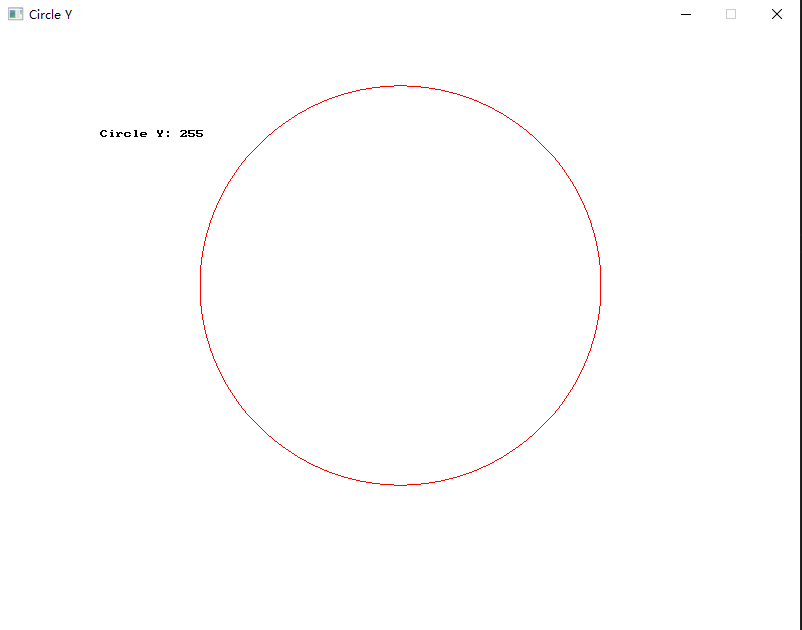
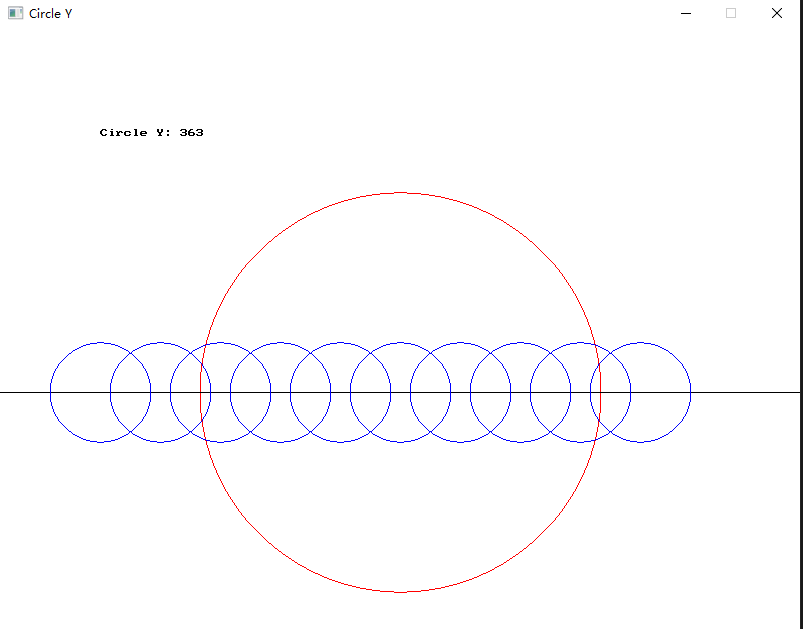
new change

diff --git a/public/usage-examples/geometry/circle_y/circle_y-1-simple-oop.cs b/public/usage-examples/geometry/circle_y/circle_y-1-simple-oop.cs
@@ -6,30 +6,41 @@ namespace CircleY
     {
         public static void Main()
         {
-        SplashKit.OpenWindow("Circle Y", 800, 600);
-        SplashKit.ClearScreen();
+            SplashKit.OpenWindow("Circle Y", 800, 600);
+            SplashKit.ClearScreen();
 
-        Random random = new Random();
-        // Set position for the circle
-        double x_position = 400;
-        //Give random  y_position value bewteen 200 - 400
-        double y_position = random.Next(200) + 200;
+            // Set position for the circle
+            double x_position = 400;
+            //Give random  y_position value bewteen 200 - 400
+            double y_position = SplashKit.Rnd(200) + 200;
 
-        // Create A circle name "A"
-        Circle A = SplashKit.CircleAt(x_position, y_position, 200);
-        // Find the y position of the circle
-        double circleY = SplashKit.CircleY(A);
+            // Create a circle A at the position (x_position, y_position)
+            Circle A = SplashKit.CircleAt(x_position, y_position, 200);
+            // Find the y position of the circle
+            double circleY = SplashKit.CircleY(A);
 
-        //Draw the Circle
-        SplashKit.DrawCircle(Color.Red, x_position, circleY, 200);
-    
-        string text = "Circle Y: " + circleY.ToString();
-        // Print result on window
-        SplashKit.DrawText(text, Color.Black, "NORMAL_FONT", 20, 100, 100);
+            //Draw the Circle
+            SplashKit.DrawCircle(Color.Red, x_position, circleY, 200);
 
-        SplashKit.RefreshScreen();
-        SplashKit.Delay(4000);
-        SplashKit.CloseAllWindows();
+            //Draw a line to show the circle Y coordinate
+            SplashKit.DrawLine(Color.Black, 0, circleY, 800, circleY);
+
+            string text = "Circle Y: " + circleY.ToString();
+            // Print result on window
+            SplashKit.DrawText(text, Color.Black, 100, 100);
+
+            //Draw 10 circles with radient 50 and the same circle y coordinate
+            for (int i = 0; i < 10; i++)
+            {
+                int x = i * 60 + 100;
+                int radiant = 50;
+
+                SplashKit.DrawCircle(Color.Blue, x, circleY, radiant);
+            }
+
+            SplashKit.RefreshScreen();
+            SplashKit.Delay(4000);
+            SplashKit.CloseAllWindows();
         }
     }
 }

diff --git a/public/usage-examples/geometry/circle_y/circle_y-1-simple.cpp b/public/usage-examples/geometry/circle_y/circle_y-1-simple.cpp
@@ -8,19 +8,31 @@ int main()
     //Set position for the circle
     double x_position = 400;
     //Give random  y_position value bewteen 200 - 400
-    double y_position = rand() % 200 + 200;
+    double y_position = rnd(200) + 200;
 
-    //Create a circle at the position (x_position, y_position)
+    //Create a circle A at the position (x_position, y_position)
     circle A = circle_at(x_position, y_position, 200);
-    // Find the Y position of the circle
+    //Find the Y position of the circle
     double circleY = circle_y(A);
 
     //Draw the Circle
     draw_circle(COLOR_RED, x_position, circleY, 200);
+
+    //Draw a line to show the circle Y coordinate
+    draw_line(COLOR_BLACK, 0, circleY, 800, circleY);
     
     string text = "Circle Y: " + std::to_string(circleY);
     //Print result on window
-    draw_text(text, COLOR_BLACK, 0, 20, 100, 100);
+    draw_text(text, COLOR_BLACK, 100, 100);
+
+    //Draw 10 circles with radient 50 and the same circle y coordinate
+    for (int i = 0; i < 10; i++)
+    {
+        int x = i * 60 + 100;
+        int radiant = 50;
+
+        draw_circle(COLOR_BLUE, x, circleY, radiant);
+    }
     
     refresh_screen();
     delay(4000);

diff --git a/public/usage-examples/geometry/circle_y/circle_y-1-simple-top-level.cs b/public/usage-examples/geometry/circle_y/circle_y-1-simple-top-level.cs
@@ -4,25 +4,35 @@ using static SplashKitSDK.SplashKit;
 OpenWindow("Circle Y", 800, 600);
 ClearScreen();
 
-Random random = new Random();
-// Set position for the circle
+//Set position for the circle
 double x_position = 400;
 //Give random  y_position value bewteen 200 - 400
-double y_position = random.Next(200) + 200;
+double y_position = Rnd(200) + 200;
 
-// Create A circle name "A"
+//Create a circle A at the position (x_position, y_position)
 Circle A = CircleAt(x_position, y_position, 200);
-// Find the y position of the circle
+//Find the y position of the circle
 double circleY = CircleY(A);
 
 //Draw the Circle
 DrawCircle(Color.Red, x_position, circleY, 200);
-    
+
+DrawLine(Color.Black, 0, circleY, 800, circleY);
+
 string text = "Circle Y: " + circleY.ToString();
 // Print result on window
-DrawText(text, Color.Black, "NORMAL_FONT", 20, 100, 100);
+DrawText(text, Color.Black, 100, 100);
+
+//Draw 10 circle with radient 50 and the same circle y coordinate
+for (int i = 0; i < 10; i++)
+{
+    int x = i * 60 + 100;
+    int radiant = 50;
+
+    DrawCircle(Color.Blue, x, circleY, radiant);
+}
 
 RefreshScreen();
 Delay(4000);
 CloseAllWindows();
-     
+

diff --git a/public/usage-examples/geometry/circle_y/circle_y-1-simple.py b/public/usage-examples/geometry/circle_y/circle_y-1-simple.py
@@ -1,5 +1,4 @@
 from splashkit import *
-import random
 
 open_window("Circle Y", 800, 600)
 clear_screen(color_white())
@@ -7,7 +6,7 @@ clear_screen(color_white())
 # Set position for the circle
 x_position = 400
 # Give random  y_position value bewteen 200 - 400
-y_position = random.randint(200, 400)
+y_position = rnd_range(200, 400)
 
 # Create a circle A at the position (x_position, y_position)
 A = circle_at(point_at(x_position, y_position), 200)
@@ -18,11 +17,20 @@ circleY = circle_y(A)
 # Draw the circle
 draw_circle(color_red(), x_position, circleY, 200)
 
+# Draw a line to show the circle Y coordinate
+draw_line(color_black(), 0, circleY, 800, circleY)
+    
 text = "Circle Y: " + str(circleY)
 # Print result on the window
 draw_text(text, color_black(), 0, 20, 100, 100)
 
+# Draw 10 circles with radient 50 and the same circle y coordinate
+for i in range(10):
+    x = i * 60 + 100
+    radiant = 50
 
+    draw_circle(color_blue(), x, circleY, radiant)
+    
 refresh_screen()
 delay(4000)
 close_all_windows()
